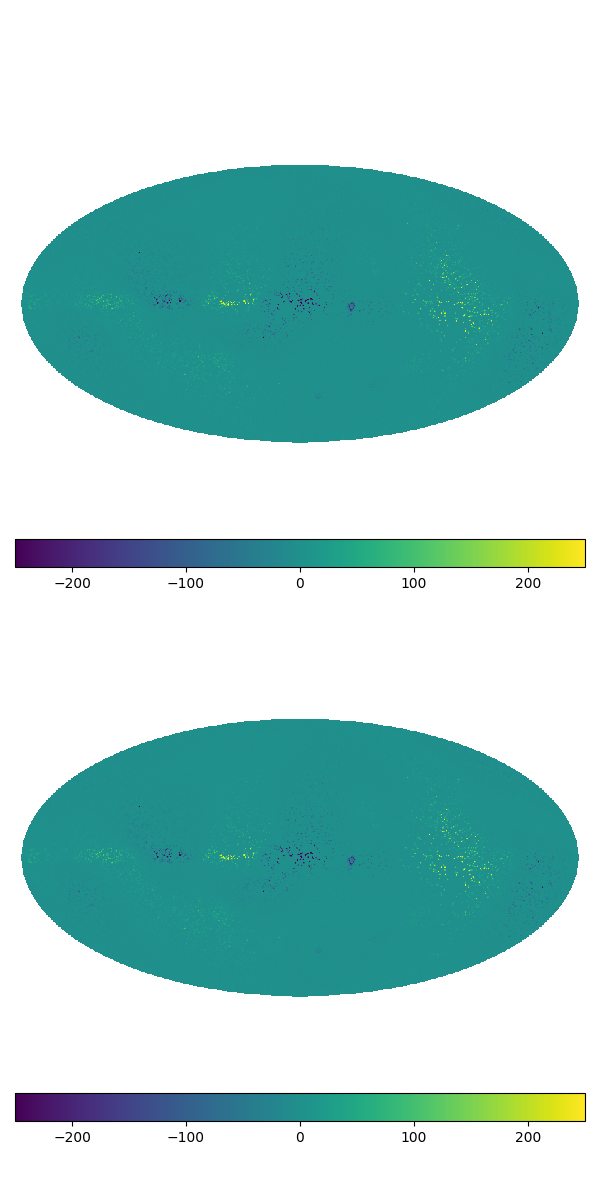
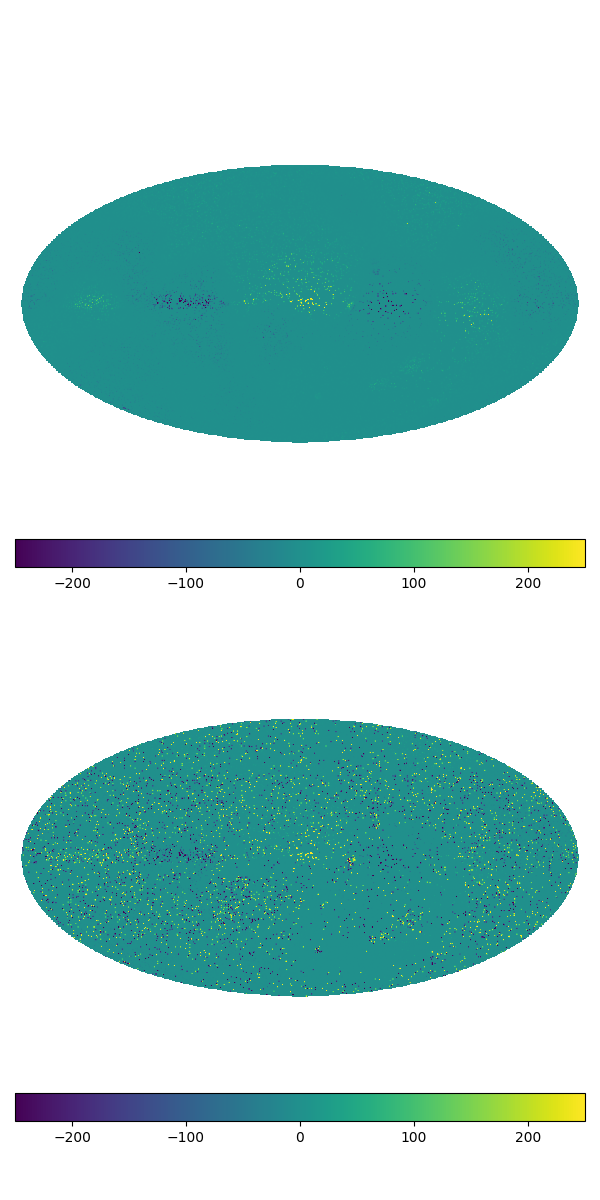
Plotting routines for eta testing included.

diff --git a/src/helper_functions/plot/plot.py b/src/helper_functions/plot/plot.py
@@ -218,7 +218,7 @@ def _density_estimation(m1, m2, xmin, xmax, ymin, ymax, nbins):
     return x, y, z
 
  
-def eta_plotting(name, plot_obj, path, string=None, **kwargs):
+def eta_plotting(name, plot_obj, path, sigma_rm, gal_pos, mock_npi_indices, string=None, **kwargs):
     if string is None:
         string = ''
     eta_path = path + 'eta/'+ '/'
@@ -235,3 +235,24 @@ def eta_plotting(name, plot_obj, path, string=None, **kwargs):
         m =plot_obj
     plot.add(m, title="mean", **kwargs)
     plot.output(name=eta_path + name +'_' + string + ".png")
+
+
+    gal_pos=gal_pos.mask.astype('float64')
+    np.putmask(gal_pos, gal_pos, m.val)
+    gal_pos[gal_pos == 0.0] = 1.0
+
+    sigma_rm_corr=gal_pos*sigma_rm
+
+    pl.scatter(sigma_rm, sigma_rm_corr)
+    pl.xlabel('$\\sigma_{RM}$')
+    pl.ylabel('$\\sigma_{RM, corr}$')
+    pl.savefig(eta_path + name +'_sigma_' + string + ".png")
+
+    pl.clf()
+    fig=pl.figure(figsize=(40,1))
+    pl.bar(np.arange(0,gal_pos.size,1), gal_pos)
+    print('mock size', mock_npi_indices.size)
+    pl.vlines(mock_npi_indices, ymin=-0.5, ymax=0, lw=0.005, color='k')
+    pl.tight_layout()
+    pl.savefig(eta_path + name +'_indices_' + string + ".png", dpi=300)
+

diff --git a/src/helper_functions/minimizer.py b/src/helper_functions/minimizer.py
@@ -38,7 +38,7 @@ class Minimizer():
             energy_plotting(energy_dict, minimizer_params['plot_path'])
             ident = str(i)
             if self.params['params_mock_cat.maker_params.npi.use_npi']==True:
-                eta_plotting('noise_excitations',[s for s in latest_sample_list.iterator()], minimizer_params['plot_path'], string=ident)
+                eta_plotting('noise_excitations',[s for s in latest_sample_list.iterator()], minimizer_params['plot_path'], minimizer_params['sigma_rm'], minimizer_params['gal_pos'], minimizer_params['mock_npi_indices'], string=ident)
 
             if minimizer_params['sky_maps'] is not None:
                 for sky_name, sky in minimizer_params['sky_maps'].items():

diff --git a/catalog_maker.py b/catalog_maker.py
@@ -140,7 +140,7 @@ class CatalogMaker():
             b_indices=np.where(np.isnan(data['z_best']))[0]
             np.random.seed(seed=self.params['params_mock_cat.maker_params.seed'])
             npi_indices=np.unique(np.random.choice(b_indices, size=self.params['params_mock_cat.maker_params.npi.npi_los']))
-            print(npi_indices)
+            np.save('mock_npi_indices.npy', npi_indices)
             print(npi_indices.size)
             print(ltheta-lerm)
             for item in b_indices:

diff --git a/settings_maker.py b/settings_maker.py
@@ -160,6 +160,9 @@ class Settings_Maker():
             'power_spectra': power_models,
             'scatter_pairs': None,
             'plotting_kwargs': plotting_kwargs,
+            'sigma_rm': data['rm_err'],
+            'gal_pos': ~z_indices,
+            'mock_npi_indices': np.load('mock_npi_indices.npy'),
             'eta': implicit_noise.get_components()['eta'] if implicit_noise_model != None else None
         }
 
